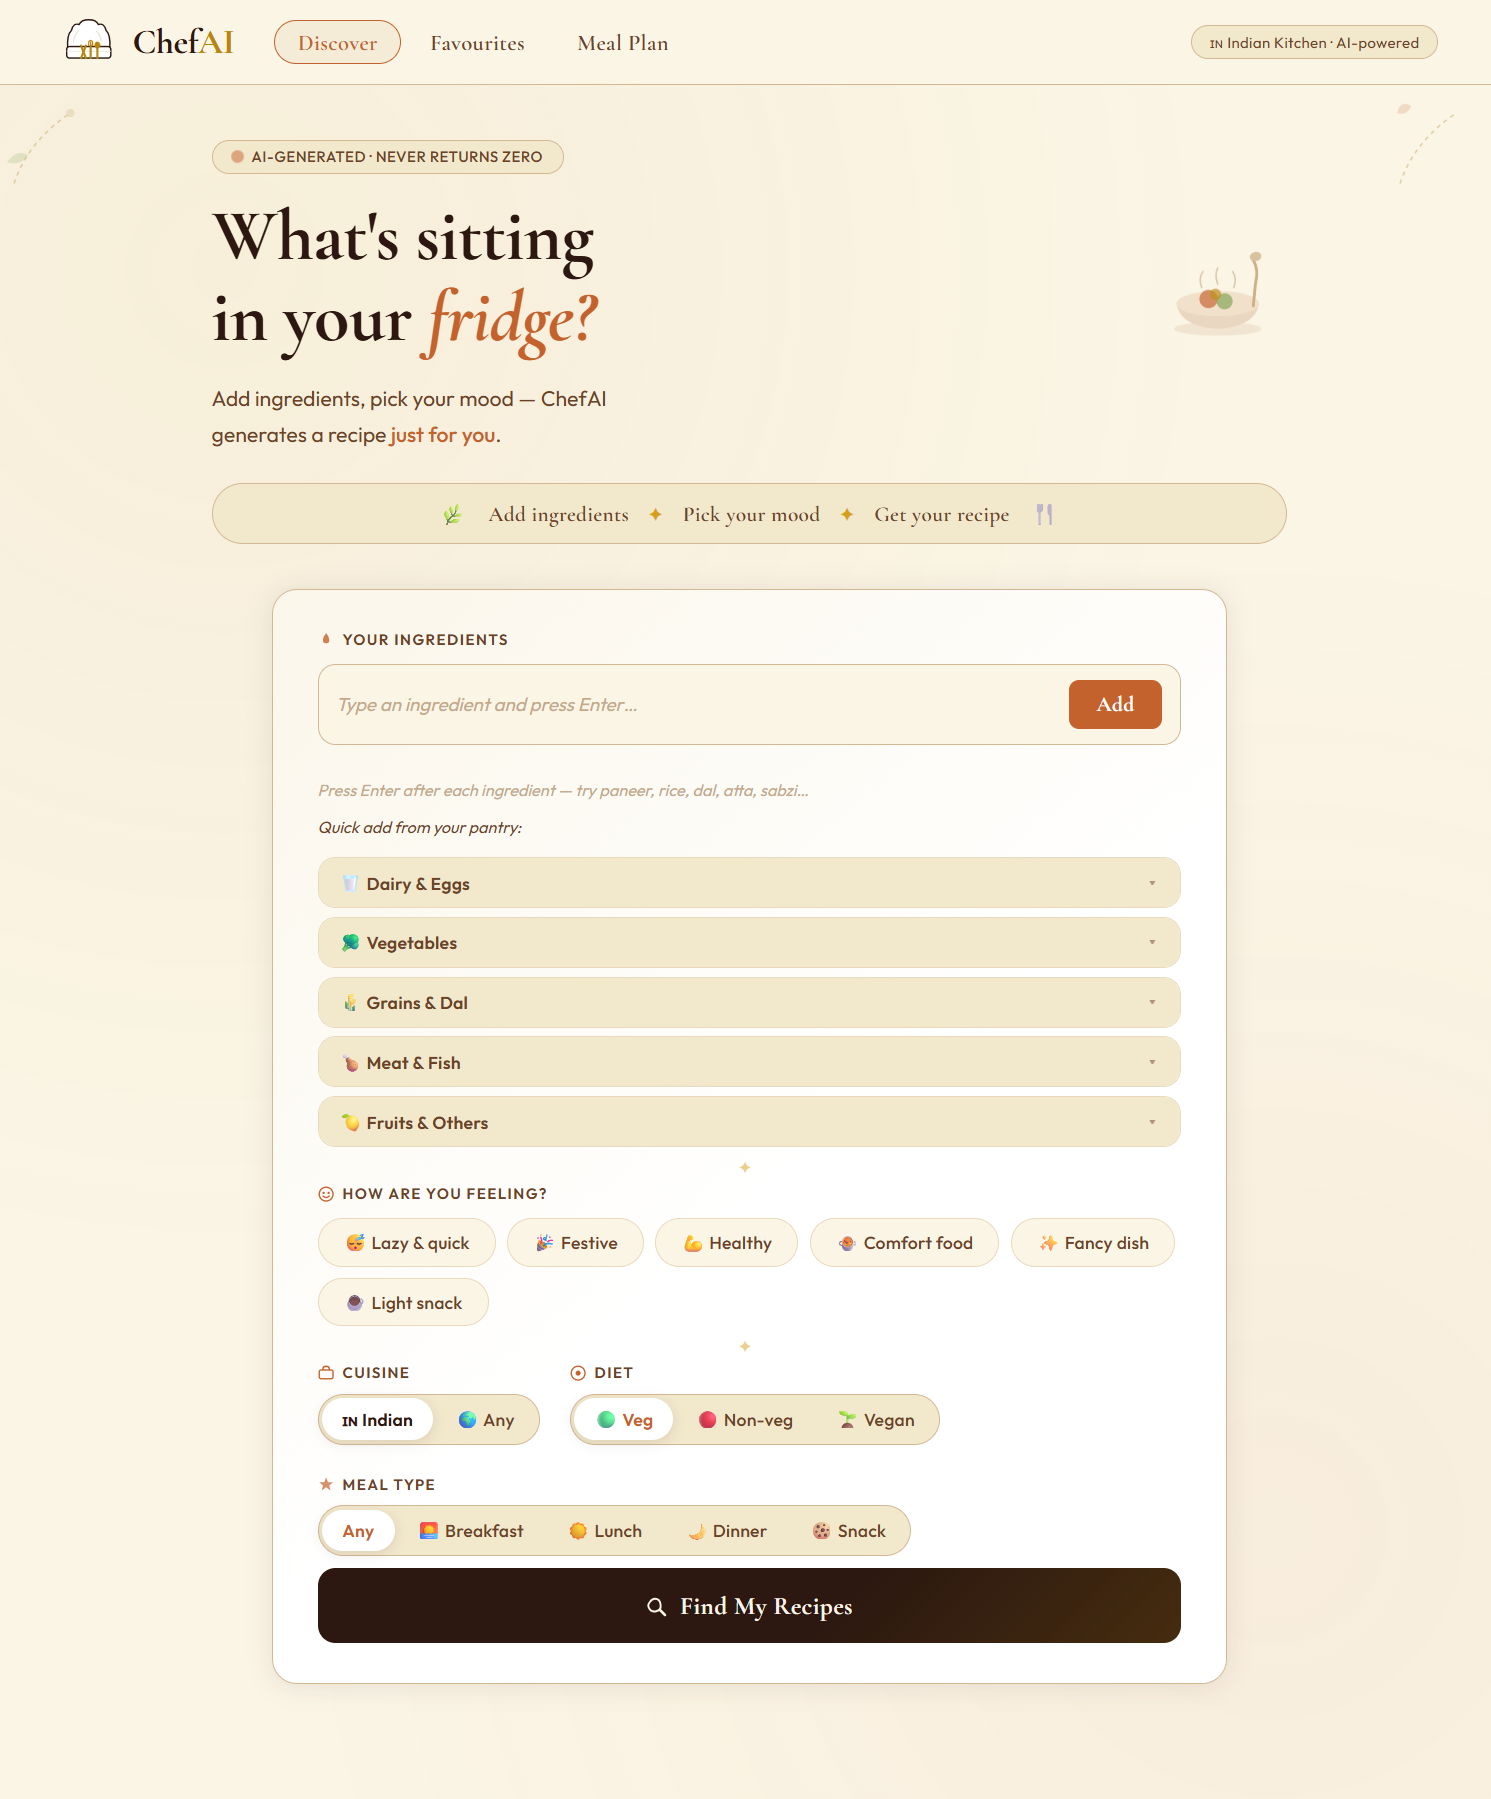
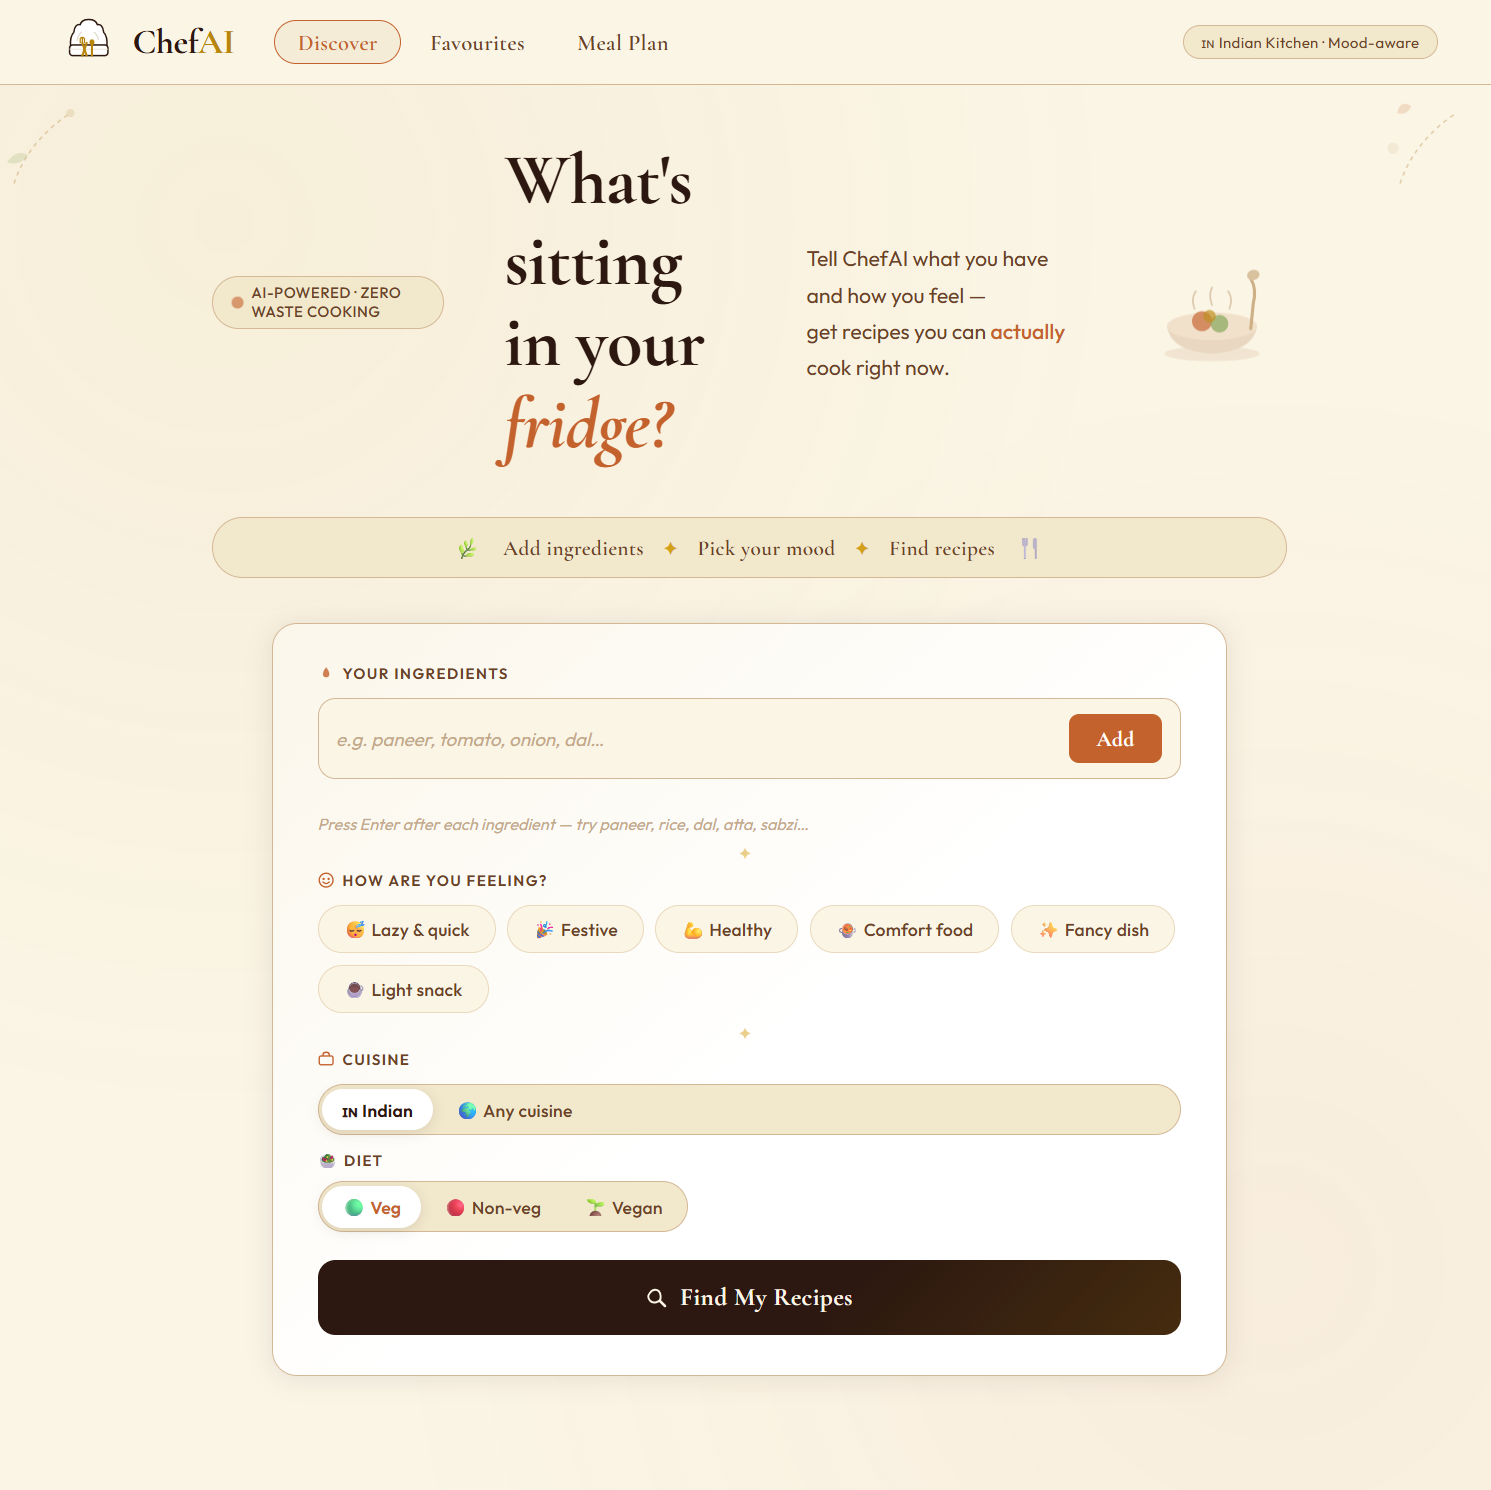
Mood messages + second Gemini key fallback + mood routing fix

diff --git a/api/recipes.js b/api/recipes.js
@@ -52,6 +52,7 @@ module.exports = async (req, res) => {
   if (req.method !== "POST")    return res.status(405).json({ error: "Method not allowed" })
 
   const GEMINI_KEY      = process.env.GEMINI_KEY      || ""
+  const GEMINI_KEY2 = process.env.GEMINI_KEY2         || ""
   const SPOONACULAR_KEY = process.env.SPOONACULAR_KEY || ""
 
   if (!SPOONACULAR_KEY && !GEMINI_KEY) {
@@ -78,16 +79,16 @@ module.exports = async (req, res) => {
   }
 
   try {
-    // STEP 1: Spoonacular only for non-Indian (Indian ingredients not in their DB)
-    let recipes = []
-    if (SPOONACULAR_KEY && cuisine !== "indian") {
-      recipes = await fetchFromSpoonacular({
-        ingredients, mood, cuisine, diet, meal, apiKey: SPOONACULAR_KEY
-      })
-    }
+   // STEP 1: Spoonacular only for non-Indian AND no mood selected
+let recipes = []
+if (SPOONACULAR_KEY && cuisine !== "indian" && !mood) {
+  recipes = await fetchFromSpoonacular({
+    ingredients, mood, cuisine, diet, meal, apiKey: SPOONACULAR_KEY
+  })
+}
 
-    // STEP 2: Gemini — always for Indian, fallback for others if < 3 results
-    if (recipes.length < 3 && GEMINI_KEY) {
+// STEP 2: Gemini — for Indian, for mood-based, or fallback if < 3 results
+if (recipes.length < 3 && GEMINI_KEY) {
       const geminiRecipes = await fetchFromGemini({
         ingredients, mood, cuisine, diet, meal, apiKey: GEMINI_KEY
       })
@@ -191,14 +192,25 @@ Use ONLY listed ingredients plus pantry staples. Use Indian units: cups, tsp, tb
 Respond ONLY with valid JSON array, no markdown.
 [{"id":1,"title":"...","readyInMinutes":25,"servings":2,"diet":"vegetarian","ingredients":[{"name":"paneer","amount":1,"unit":"cup"}],"steps":["Step 1."],"nutrition":{"calories":320,"protein":18,"carbs":24,"fat":14},"emoji":"🍛"}]`
 
-    const res = await fetchWithRetry(`${GEMINI_BASE}?key=${apiKey}`, {
-      method: "POST",
-      headers: { "Content-Type": "application/json" },
-      body: JSON.stringify({
-        contents: [{ parts: [{ text: prompt }] }],
-        generationConfig: { temperature: 0.7, maxOutputTokens: 2048 }
-      })
+  let res = await fetchWithRetry(`${GEMINI_BASE}?key=${apiKey}`, {
+  method: "POST",
+  headers: { "Content-Type": "application/json" },
+  body: JSON.stringify({
+    contents: [{ parts: [{ text: prompt }] }],
+    generationConfig: { temperature: 0.7, maxOutputTokens: 2048 }
+  })
+})
+if (res.status === 429 && GEMINI_KEY2) {
+  console.log("Primary Gemini key exhausted, switching to backup...")
+  res = await fetchWithRetry(`${GEMINI_BASE}?key=${GEMINI_KEY2}`, {
+    method: "POST",
+    headers: { "Content-Type": "application/json" },
+    body: JSON.stringify({
+      contents: [{ parts: [{ text: prompt }] }],
+      generationConfig: { temperature: 0.7, maxOutputTokens: 2048 }
     })
+  })
+}
 
     if (!res.ok) { console.warn("Gemini fallback:", res.status); return [] }
 

diff --git a/js/app.js b/js/app.js
@@ -9,6 +9,15 @@ let currentServings = 2
 let baseServings    = 2
 let currentRecipe   = null
 
+const MOOD_MESSAGES = {
+  lazy:    "⚡ Quick recipes — ready in under 20 minutes",
+  festive: "🎉 Celebratory dishes — perfect for guests",
+  healthy: "💪 Light and nutritious — under 450 calories",
+  comfort: "🍲 Hearty and warming — soul food picks",
+  fancy:   "✨ Restaurant-style — impressive presentation",
+  snack:   "☕ Light bites — small portions, big flavour"
+}
+
 // ══ CLICK SOUND ══════════════════════════════════════
 function playClick() {
   try {
@@ -167,8 +176,11 @@ async function findRecipes() {
       return
     }
 
-    lbl.textContent = `${recipes.length} recipes crafted for you`
-    renderRecipes(recipes, grid)
+    lbl.textContent = selectedMood && MOOD_MESSAGES[selectedMood]
+  ? MOOD_MESSAGES[selectedMood]
+  : `${recipes.length} recipes crafted for you`
+
+  renderRecipes(recipes, grid)
 
   } catch(err) {
     lbl.textContent = "Error"
